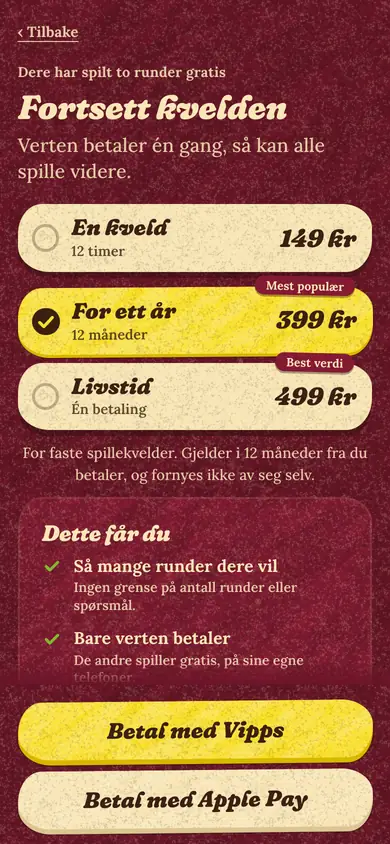
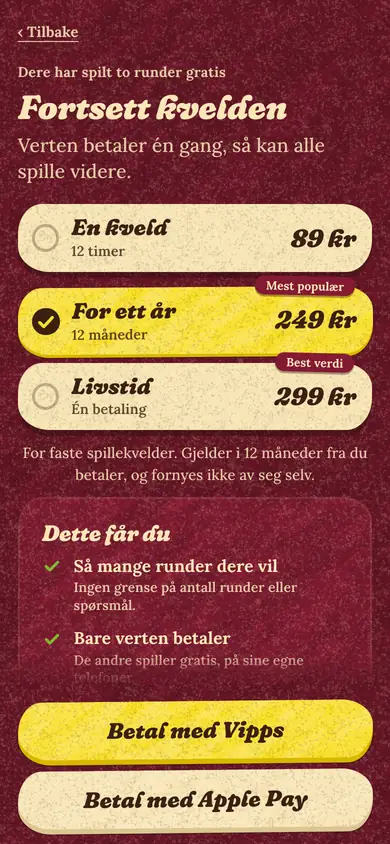
Nye priser: En kveld 89 kr, For ett år 249 kr, Livstid 299 kr
Var 149, 399 og 499 kr. Prisene står i Shopify (kassen) og i appen (public/js/pay/plans.js: pakkeskjermen og «inkl. mva»-teksten), og de må være de
samme, så begge er byttet. Videre:
- vilkårene (public/vilkar.html) og stilguiden (text + pay-gate.webp tegnet på nytt)
- Stripe-utgaven holdes i takt med: beløpene i payments/worker.js (8900, 24900, 29900), den falske Stripe-en, og Stripe-veilederen
  (docs/BETALING.md, med gebyrtabellen regnet om: 4,14 / 7,98 / 9,18 kr)
- docs/SHOPIFY.md (tabellene, og gebyrteksten: på 89 kr er 2 % + 2 kr 3,78 kr)
- testene og QA-verktøyene (belop i ordrer, refusjoner og kassen): en full refusjon er nå like stor som den nye prisen; de delvise er
  fortsatt delvise
- tools/qa/shopsmoke.mjs sjekker at kassen i den ekte butikken viser samme pris som spillet

Prøvd: 354 tester, play:pay-shopify, play:pay og qa:fit.

diff --git a/test/worker-shopify.test.js b/test/worker-shopify.test.js
@@ -162,7 +162,7 @@ describe('POST /shopify/webhook: orders/paid', () => {
       plan: 'year',
       paid_at: Math.floor(Date.parse(o.processed_at) / 1000),
       consented_at: Math.floor(Date.parse(o.note_attributes.find((a) => a.name === 'samtykke').value) / 1000),
-      amount: 39900,
+      amount: 24900,
       currency: 'NOK',
       name: o.name,
       test: 0,
@@ -184,7 +184,7 @@ describe('POST /shopify/webhook: orders/paid', () => {
     const disputed = order({ code: 'MMMM-MMMM-MMM1' });
     for (const o of [cancelled, refunded, disputed]) await t.deliver('orders/paid', o);
     await t.deliver('orders/cancelled', cancelled);
-    await t.deliver('refunds/create', refund(refunded.id, '399.00'));
+    await t.deliver('refunds/create', refund(refunded.id, '249.00'));
     await t.deliver('disputes/create', dispute(disputed.id));
     for (const o of [cancelled, refunded, disputed]) assert.equal((await t.deliver('orders/paid', o)).status, 200);
     assert.deepEqual(rows().map((r) => r.state).sort(), ['cancelled', 'disputed', 'refunded']);
@@ -317,11 +317,11 @@ describe('POST /shopify/webhook: cancelled, refunded, disputed', () => {
     await t.deliver('refunds/create', refund(o.id, '100.00'));
     assert.equal((await claim()).status, 200, 'a part of it back (a goodwill refund) does not take the access away');
     assert.equal(rows()[0].refunded, 10000);
-    await t.deliver('refunds/create', refund(o.id, '299.00'));
+    await t.deliver('refunds/create', refund(o.id, '149.00'));
     const r = await claim();
     assert.equal(r.status, 410);
     assert.equal(r.body.error, 'refunded');
-    assert.equal(rows()[0].refunded, 39900);
+    assert.equal(rows()[0].refunded, 24900);
   });
 
   it('counts a refund once, however many times Shopify calls about it, and does not count one that did not go through', async () => {
@@ -339,27 +339,27 @@ describe('POST /shopify/webhook: cancelled, refunded, disputed', () => {
 
   it('counts a refund that has been asked for but has not cleared yet (a payment app such as Vipps), and stops the code at once', async () => {
     const { order: o } = await t.pay({ plan: 'year' });
-    await t.deliver('refunds/create', refund(o.id, '399.00', { status: 'pending' }));
+    await t.deliver('refunds/create', refund(o.id, '249.00', { status: 'pending' }));
     assert.equal((await claim()).body.error, 'refunded');
   });
 
   it('counts a refund that does not say which currency it is in as one in the currency of the order', async () => {
     const { order: o } = await t.pay({ plan: 'evening' });
-    await t.deliver('refunds/create', { id: 77, order_id: o.id, transactions: [{ kind: 'refund', status: 'success', amount: '149.00' }] });
+    await t.deliver('refunds/create', { id: 77, order_id: o.id, transactions: [{ kind: 'refund', status: 'success', amount: '89.00' }] });
     assert.equal((await claim()).body.error, 'refunded');
   });
 
   it('counts a refund only in the currency of the order: a sum in another currency is not the same sum', async () => {
     const { order: o } = await t.pay({ plan: 'year' });
     await t.deliver('refunds/create', refund(o.id, '36.00', { currency: 'EUR' }));
-    await t.deliver('refunds/create', refund(o.id, '399.00', { currency: 'EUR' }));
+    await t.deliver('refunds/create', refund(o.id, '249.00', { currency: 'EUR' }));
     assert.equal(rows()[0].refunded, 0, 'what was paid back in euros does not add up to what was paid in kroner');
     assert.equal((await claim()).status, 200);
   });
 
   it('applies a refund that Shopify\'s calls delivered before the order', async () => {
     const o = order({ plan: 'evening' });
-    await t.deliver('refunds/create', refund(o.id, '149.00'));
+    await t.deliver('refunds/create', refund(o.id, '89.00'));
     await t.deliver('orders/paid', o);
     assert.equal((await claim()).body.error, 'refunded');
   });
@@ -505,7 +505,7 @@ describe('POST /restore: a customer on a new phone', () => {
     assert.equal(unknown.status, 404);
     assert.match(unknown.body.message, /Fant ingen betaling/);
     const { order: o } = await t.pay({ plan: 'year' });
-    await t.deliver('refunds/create', refund(o.id, '399.00'));
+    await t.deliver('refunds/create', refund(o.id, '249.00'));
     assert.equal((await post(CODE)).body.error, 'refunded');
     await t.pay({ plan: 'evening', code: 'HHHH-HHHH-HHH1', paidAt: new Date(Date.now() - 13 * HOUR) });
     assert.equal((await post('HHHH-HHHH-HHH1')).body.error, 'expired');

diff --git a/test/worker.test.js b/test/worker.test.js
@@ -47,8 +47,8 @@ describe('POST /checkout', () => {
     assert.equal(p.get('line_items[0][quantity]'), '1');
     assert.equal(p.get('allowed_payment_method_types[0]'), 'card', 'Apple Pay is part of "card" on Stripe\'s page');
     assert.equal(p.get('payment_method_types[0]'), null, 'the older parameter is not used unless asked for');
-    assert.equal(p.get('metadata[amount]'), '39900', 'what this payment is started with, so that a later change of price cannot lock out the buyer');
-    assert.equal(p.get('payment_intent_data[metadata][amount]'), '39900');
+    assert.equal(p.get('metadata[amount]'), '24900', 'what this payment is started with, so that a later change of price cannot lock out the buyer');
+    assert.equal(p.get('payment_intent_data[metadata][amount]'), '24900');
     assert.match(p.get('custom_text[submit][message]'), new RegExp(`Koden din er \\*\\*${p.get('metadata[code]')}\\*\\*`), 'the code is on Stripe\'s page too');
     assert.equal(p.get('locale'), 'nb');
     assert.equal(p.get('customer_creation'), 'always');
@@ -121,7 +121,7 @@ describe('POST /checkout', () => {
   });
 
   it('finds a price in Stripe that is not the package\'s before anybody has paid, and shows no payment page', async () => {
-    t.env.PRICE_YEAR = 'price_evening'; // the 149 kr price on the year
+    t.env.PRICE_YEAR = 'price_evening'; // the 89 kr price on the year
     const r = await json(await t.call('/checkout', { method: 'POST', body: { plan: 'year', method: 'applepay' } }));
     assert.equal(r.status, 503);
     assert.equal(r.body.error, 'misconfigured');
@@ -233,7 +233,7 @@ describe('GET /claim', () => {
   it('refuses a payment whose amount is not the one it was started with, whatever else is true of it', async () => {
     const started = await json(await t.call('/checkout', { method: 'POST', body: { plan: 'year', method: 'applepay' } }));
     const id = started.body.url.split('/').pop();
-    t.stripe.pay(id, { amount: 14900 }); // (something changed the amount on its way: it is not what the payment was started with)
+    t.stripe.pay(id, { amount: 8900 }); // (something changed the amount on its way: it is not what the payment was started with)
     const r = await json(await t.call(`/claim?session_id=${id}`));
     assert.equal(r.status, 503);
     assert.equal(r.body.error, 'misconfigured');

diff --git a/public/design-system/index.html b/public/design-system/index.html
@@ -323,9 +323,9 @@
     <div class="ds-grid ds-grid--wide">
       <div class="ds-phone">
         <div class="plans" role="radiogroup" aria-label="Velg pakke" data-plans>
-          <label class="plan"><input type="radio" name="ds-plan" value="evening"><span class="plan__radio" aria-hidden="true"></span><span class="plan__main"><span class="plan__name">En kveld</span><span class="plan__sub">12 timer</span></span><span class="plan__price">149 kr</span></label>
-          <label class="plan is-selected"><input type="radio" name="ds-plan" value="year" checked><span class="plan__radio" aria-hidden="true"></span><span class="plan__main"><span class="plan__name">For ett år</span><span class="plan__sub">12 måneder</span></span><span class="plan__price">399 kr</span><span class="plan__badge">Mest populær</span></label>
-          <label class="plan"><input type="radio" name="ds-plan" value="lifetime"><span class="plan__radio" aria-hidden="true"></span><span class="plan__main"><span class="plan__name">Livstid</span><span class="plan__sub">Én betaling</span></span><span class="plan__price">499 kr</span><span class="plan__badge">Best verdi</span></label>
+          <label class="plan"><input type="radio" name="ds-plan" value="evening"><span class="plan__radio" aria-hidden="true"></span><span class="plan__main"><span class="plan__name">En kveld</span><span class="plan__sub">12 timer</span></span><span class="plan__price">89 kr</span></label>
+          <label class="plan is-selected"><input type="radio" name="ds-plan" value="year" checked><span class="plan__radio" aria-hidden="true"></span><span class="plan__main"><span class="plan__name">For ett år</span><span class="plan__sub">12 måneder</span></span><span class="plan__price">249 kr</span><span class="plan__badge">Mest populær</span></label>
+          <label class="plan"><input type="radio" name="ds-plan" value="lifetime"><span class="plan__radio" aria-hidden="true"></span><span class="plan__main"><span class="plan__name">Livstid</span><span class="plan__sub">Én betaling</span></span><span class="plan__price">299 kr</span><span class="plan__badge">Best verdi</span></label>
         </div>
       </div>
       <div class="ds-stack">

diff --git a/public/vilkar.html b/public/vilkar.html
@@ -41,9 +41,9 @@
     <h2>1. Hva du kjøper</h2>
     <p>Disputt er et nettbasert spill som spilles på mobil. De to første rundene i hvert spill er gratis. Vil dere spille videre, kjøper den som startet spillet (verten) tilgang. Bare verten trenger tilgang: de andre spillerne spiller gratis, på sine egne telefoner, så lenge verten har tilgang.</p>
     <ul class="legal__plans">
-      <li><strong>En kveld</strong><span>149 kr · tilgang i 12 timer fra betalingen</span></li>
-      <li><strong>For ett år</strong><span>399 kr · tilgang i 12 måneder fra betalingen</span></li>
-      <li><strong>Livstid</strong><span>499 kr · tilgang så lenge vi tilbyr Disputt (se punkt 7)</span></li>
+      <li><strong>En kveld</strong><span>89 kr · tilgang i 12 timer fra betalingen</span></li>
+      <li><strong>For ett år</strong><span>249 kr · tilgang i 12 måneder fra betalingen</span></li>
+      <li><strong>Livstid</strong><span>299 kr · tilgang så lenge vi tilbyr Disputt (se punkt 7)</span></li>
     </ul>
     <p>Alle pakkene er engangsbetalinger. Ingenting fornyes av seg selv, og vi trekker aldri penger fra deg uten at du selv har startet en betaling. For å kjøpe må du være fylt 18 år, eller ha samtykke fra en forelder eller foresatt.</p>
   </section>

diff --git a/test/shop-flow.test.js b/test/shop-flow.test.js
@@ -422,7 +422,7 @@ describe('asking whether it was paid', () => {
 
   it('tells the host, and stops waiting, when the order was refunded, cancelled or disputed, or the package has run out', async () => {
     for (const [what, act, wording] of [
-      ['refunded', (o) => t.deliver('refunds/create', { id: 1 + Math.floor(Math.random() * 1e9), order_id: o.id, transactions: [{ kind: 'refund', status: 'success', amount: '149.00', currency: 'NOK' }] }), /refundert/],
+      ['refunded', (o) => t.deliver('refunds/create', { id: 1 + Math.floor(Math.random() * 1e9), order_id: o.id, transactions: [{ kind: 'refund', status: 'success', amount: '89.00', currency: 'NOK' }] }), /refundert/],
       ['cancelled', (o) => t.deliver('orders/cancelled', o), /kansellert/],
       ['disputed', (o) => t.deliver('disputes/create', { id: 7, order_id: o.id }), /bestridt/],
     ]) {

diff --git a/public/js/pay/plans.js b/public/js/pay/plans.js
@@ -7,14 +7,14 @@ export const PLANS = [
   {
     id: 'evening',
     name: 'En kveld',
-    price: 149,
+    price: 89,
     length: '12 timer',
     detail: 'Til én spillekveld. Gjelder i 12 timer fra du betaler.',
   },
   {
     id: 'year',
     name: 'For ett år',
-    price: 399,
+    price: 249,
     length: '12 måneder',
     detail: 'For faste spillekvelder. Gjelder i 12 måneder fra du betaler, og fornyes ikke av seg selv.',
     badge: 'Mest populær',
@@ -22,7 +22,7 @@ export const PLANS = [
   {
     id: 'lifetime',
     name: 'Livstid',
-    price: 499,
+    price: 299,
     length: 'Én betaling',
     detail: 'Betal én gang, spill for alltid. Gjelder så lenge Disputt finnes.',
     badge: 'Best verdi',

diff --git a/test/pay.test.js b/test/pay.test.js
@@ -149,10 +149,10 @@ describe('the restore code', () => {
 
 describe('the packages', () => {
   it('are the three the host can buy, with the prices from the plan', () => {
-    assert.deepEqual(PLANS.map((p) => [p.id, p.name, p.price]), [['evening', 'En kveld', 149], ['year', 'For ett år', 399], ['lifetime', 'Livstid', 499]]);
+    assert.deepEqual(PLANS.map((p) => [p.id, p.name, p.price]), [['evening', 'En kveld', 89], ['year', 'For ett år', 249], ['lifetime', 'Livstid', 299]]);
     assert.equal(planById(DEFAULT_PLAN).id, 'year');
     assert.equal(planById('nope'), null);
-    assert.equal(formatPrice(149), '149 kr');
+    assert.equal(formatPrice(89), '89 kr');
     assert.ok(PERKS.length >= 3);
   });
 

diff --git a/payments/worker.js b/payments/worker.js
@@ -38,9 +38,9 @@ function plusOneYear(seconds) {
  * `paidAt` (seconds); null means never.
  */
 const PLANS = {
-  evening: { name: 'En kveld', amount: 14900, ends: (paidAt) => paidAt + 12 * 3600 },
-  year: { name: 'For ett år', amount: 39900, ends: plusOneYear },
-  lifetime: { name: 'Livstid', amount: 49900, ends: () => null },
+  evening: { name: 'En kveld', amount: 8900, ends: (paidAt) => paidAt + 12 * 3600 },
+  year: { name: 'For ett år', amount: 24900, ends: plusOneYear },
+  lifetime: { name: 'Livstid', amount: 29900, ends: () => null },
 };
 
 const PRICE_VARS = { evening: 'PRICE_EVENING', year: 'PRICE_YEAR', lifetime: 'PRICE_LIFETIME' };

diff --git a/docs/BETALING.md b/docs/BETALING.md
@@ -12,9 +12,9 @@ Innhold: [Kort fortalt](#kort-fortalt) · [1. Slik virker det](#1-slik-virker-de
 
 | Pakke | Pris | Varighet |
 | --- | --- | --- |
-| **En kveld** | 149 kr | 12 timer fra betalingen |
-| **For ett år** (mest populær) | 399 kr | 12 måneder fra betalingen |
-| **Livstid** (best verdi) | 499 kr | én betaling, ingen utløpsdato |
+| **En kveld** | 89 kr | 12 timer fra betalingen |
+| **For ett år** (mest populær) | 249 kr | 12 måneder fra betalingen |
+| **Livstid** (best verdi) | 299 kr | én betaling, ingen utløpsdato |
 
 Alle er engangsbetalinger. Ingenting fornyes av seg selv. Bare **verten** betaler; de andre spiller gratis på sine egne telefoner.
 
@@ -106,7 +106,7 @@ Dette er den delen som tar tid, og den du ikke kan hoppe over. Start i dag, og l
 
 ### 2.2 Merverdiavgift (mva)
 
-- Pesom Holding AS står som **mva-registrert** (Proff viser «MVA» etter organisasjonsnummeret). Da skal prisene forbrukere ser være sluttprisene, med mva i. Appen og vilkårene sier derfor «inkl. mva»: 149, 399 og 499 kr er det kunden betaler, og selskapet skal beregne og betale mva av beløpet (normalsatsen er 25 %). Spør regnskapsføreren om riktig sats for denne typen tjeneste og om hvordan salg via Stripe skal bokføres.
+- Pesom Holding AS står som **mva-registrert** (Proff viser «MVA» etter organisasjonsnummeret). Da skal prisene forbrukere ser være sluttprisene, med mva i. Appen og vilkårene sier derfor «inkl. mva»: 89, 249 og 299 kr er det kunden betaler, og selskapet skal beregne og betale mva av beløpet (normalsatsen er 25 %). Spør regnskapsføreren om riktig sats for denne typen tjeneste og om hvordan salg via Stripe skal bokføres.
 - «inkl. mva» står i `public/js/screens/pay.js` og i punkt 2 i [vilkårene](../public/vilkar.html). Skulle selskapet likevel ikke være mva-registrert, må det ut begge steder.
 - **Alternativ:** Stripe tilbyr [Managed Payments](https://docs.stripe.com/payments/managed-payments), der Stripe er selger overfor kunden (merchant of record) og tar mva-oppgjøret i over 80 land. Norge er med som forretningsland, og Apple Pay og kort støttes. Men **Vipps støttes ikke** (ikke i listen over betalingsmåter), kunden ser «Sold through Link», og kvitteringene kommer fra Link og kan ikke tilpasses. Det er ikke bygget inn her. Si fra hvis du vil vurdere det.
 
@@ -134,9 +134,9 @@ Stripe tar for norske og europeiske kort (Apple Pay regnes som kort) **2,4 % + 2
 
 | Pakke | Pris | Stripe-gebyr | Igjen før mva og skatt | Hvis 25 % mva ligger i prisen: mva | Igjen etter gebyr og mva |
 | --- | --- | --- | --- | --- | --- |
-| En kveld | 149 kr | 5,58 kr | 143,42 kr | 29,80 kr | 113,62 kr |
-| For ett år | 399 kr | 11,58 kr | 387,42 kr | 79,80 kr | 307,62 kr |
-| Livstid | 499 kr | 13,98 kr | 485,02 kr | 99,80 kr | 385,22 kr |
+| En kveld | 89 kr | 4,14 kr | 84,86 kr | 17,80 kr | 67,06 kr |
+| For ett år | 249 kr | 7,98 kr | 241,02 kr | 49,80 kr | 191,22 kr |
+| Livstid | 299 kr | 9,18 kr | 289,82 kr | 59,80 kr | 230,02 kr |
 
 (Regnestykket er et anslag for norske kort og Apple Pay. Vipps-gebyret er ikke med.)
 
@@ -159,7 +159,7 @@ Kundene skal skrive til `kontakt@disputt.site`: den står i vilkårene og person
 
 **Tekster til aktiveringen.** Stripe spør hva dere selger, og noen leser svaret, så skriv det på engelsk. Du kan lime inn dette (endre hvis noe ikke stemmer):
 
-> Disputt is a social party game for 3–10 players on their own phones: a bluffing and trivia game played in the browser, with no app and no account. The first two rounds of every game are free. The host can buy access as a one-time digital purchase: "En kveld" (one evening, 12 hours) NOK 149, "For ett år" (12 months) NOK 399, "Livstid" (as long as the service is offered) NOK 499. Access is delivered immediately, as a signed pass stored in the browser plus a restore code. No subscriptions, no physical goods, no shipping. Customers are consumers, paying with Vipps, Apple Pay or card.
+> Disputt is a social party game for 3–10 players on their own phones: a bluffing and trivia game played in the browser, with no app and no account. The first two rounds of every game are free. The host can buy access as a one-time digital purchase: "En kveld" (one evening, 12 hours) NOK 89, "For ett år" (12 months) NOK 249, "Livstid" (as long as the service is offered) NOK 299. Access is delivered immediately, as a signed pass stored in the browser plus a restore code. No subscriptions, no physical goods, no shipping. Customers are consumers, paying with Vipps, Apple Pay or card.
 >
 > Refund policy: if the access does not work as described and we cannot fix it, we refund the full amount. Terms: https://disputt.site/vilkar.html (section 5). Privacy: https://disputt.site/personvern.html
 
@@ -175,13 +175,13 @@ For hver av de tre pakkene: *Product catalog* → **Add product**:
 
 | Navn | Beskrivelse | Pris | Type |
 | --- | --- | --- | --- |
-| Disputt – En kveld | 12 timers tilgang for verten | **149,00 NOK** | One-off (engangs) |
-| Disputt – For ett år | 12 måneders tilgang for verten | **399,00 NOK** | One-off |
-| Disputt – Livstid | Tilgang så lenge Disputt finnes, for verten | **499,00 NOK** | One-off |
+| Disputt – En kveld | 12 timers tilgang for verten | **89,00 NOK** | One-off (engangs) |
+| Disputt – For ett år | 12 måneders tilgang for verten | **249,00 NOK** | One-off |
+| Disputt – Livstid | Tilgang så lenge Disputt finnes, for verten | **299,00 NOK** | One-off |
 
 1. - [ ] Lag de tre produktene. Velg **One-off**, ikke *Recurring*.
 2. - [ ] Kopier **pris-ID-en** til hver (`price_…`): åpne produktet, finn prisen, trykk ⋯ → *Copy price ID*. Du trenger de tre i del 8 (`PRICE_EVENING`, `PRICE_YEAR`, `PRICE_LIFETIME`).
-3. - [ ] Dobbeltsjekk at beløpene er **nøyaktig** 149, 399 og 499 kroner, i NOK.
+3. - [ ] Dobbeltsjekk at beløpene er **nøyaktig** 89, 249 og 299 kroner, i NOK.
 
 Betalingsserveren sjekker prisen **før** kunden får se betalingssiden: stemmer ikke beløpet i Stripe med pakken (en pris-ID som peker på feil pris), får du feilen «Prisen i Stripe stemmer ikke med pakken» med navnet på variabelen, og ingen betaler for noe som ikke virker. Beløpet som betalingen startet med lagres også hos Stripe, og kontrolleres igjen når tilgangen hentes. Skal du endre en pris, se «Endre priser» i [del 12](#12-drift).
 
@@ -302,7 +302,7 @@ Filen er [`payments/worker.js`](../payments/worker.js): ca. 350 linjer, ingen av
 | `… (JWT_PRIVATE_KEY kan ikke leses)` | nøkkelen er kuttet, har linjeskift midt i, eller er ikke fra del 7.2 |
 | `… (TERMS_URL må være en https-adresse …)` | adressen har mellomrom, parenteser eller anførselstegn, eller er ikke https |
 | `Denne siden har ikke lov til å bruke betalingen` | adressen som kaller er ikke `SITE_URL` (feil adresse, eller http i stedet for https) |
-| `Beløpet stemmer ikke med pakken` | prisen i Stripe er ikke nøyaktig 149/399/499 kr i NOK |
+| `Beløpet stemmer ikke med pakken` | prisen i Stripe er ikke nøyaktig 89/249/299 kr i NOK |
 | `Betalingstjenesten sa nei …` (og i Cloudflare-loggen: *No such price*) | pris-ID-en hører til et annet miljø: en live-pris sammen med en testnøkkel, eller omvendt |
 | `Tilgangen kunne ikke kontrolleres` etter en betaling | den offentlige nøkkelen på GitHub (`DISPUTT_PAYMENTS_KEY`) hører ikke til den private i Cloudflare (`JWT_PRIVATE_KEY`). Betalingen er gjort, så rett opp nøkkelen og la kunden trykke «Logg inn» med koden. |
 | `Fikk ikke kontakt med betalingen` | telefonen når ikke betalingsserveren: feil adresse i `DISPUTT_PAYMENTS_URL`, eller Workeren er ikke deployet |
@@ -354,13 +354,13 @@ Testkort ([Stripes testkort](https://docs.stripe.com/testing)): `4242 4242 4242 
 | 1 | Åpne `…/health` på Workeren | `ok: true`, `mode: "test"` |
 | 2 | Forsiden | «Allerede kunde? Logg inn» (ikke «Slik spiller du»); regler finnes fortsatt under Vertsvalg i spillet |
 | 3 | Spill to runder. Verten trykker «Neste runde» | Verten får **pakkene**. Gjestene ser «Venter på at verten starter neste runde» og får aldri pakkene |
-| 4 | Velg **En kveld**, trykk **Betal med Apple Pay**. Betal med `4242…` | Stripe-siden viser 149 kr. Tilbake i spillet: «Takk!» med koden og knappen **Start runde 3** |
+| 4 | Velg **En kveld**, trykk **Betal med Apple Pay**. Betal med `4242…` | Stripe-siden viser 89 kr. Tilbake i spillet: «Takk!» med koden og knappen **Start runde 3** |
 | 5 | Mens verten er hos Stripe: se på en gjest | «Verten betaler – spillet fortsetter straks». Gjesten blir i spillet, også etter flere minutter (opptil ti) |
 | 6 | Trykk **Start runde 3** | Runde 3 starter. Er en gjest ikke tilbake ennå, står det «Venter på at … kommer tilbake …» under koden |
 | 7 | Trykk «Neste runde» etter runde 3 | Ingen betalingsmur: verten har tilgang |
 | 8 | **Avbryt** på Stripe-siden (pilen tilbake) | «Betalingen ble avbrutt. Du er ikke belastet.» Spillet står som før; «Neste runde» gir pakkene igjen |
 | 9 | I Stripe: Payments → betalingen → send kvittering for hånd | Kvitteringen kommer. **Står koden i kvitteringen?** Hvis ikke: se «Mistet koden» i [del 12](#12-drift) |
-| 10 | Pakken «For ett år» og «Livstid» (egne betalinger) | Beløpene 399 og 499 kr. «Takk!» sier «Gjelder til …» og «Gjelder for alltid» |
+| 10 | Pakken «For ett år» og «Livstid» (egne betalinger) | Beløpene 249 og 299 kr. «Takk!» sier «Gjelder til …» og «Gjelder for alltid» |
 | 11 | Avvist kort `4000 0000 0000 0002` | Stripe viser feil og lar deg prøve igjen. Spillet påvirkes ikke |
 | 12 | 3-D Secure `4000 0027 6000 3184` | Testsiden for godkjenning, så «Takk!» |
 | 13 | Ny telefon (eller privat fane): **Logg inn** → skriv koden | «Velkommen tilbake! …». Prøv også koden med små bokstaver og uten bindestreker, og en feil kode («Fant ingen betaling med den koden.»). **Vent et minutt etter betalingen først:** Stripes søk, som slår opp koden, kan ligge opptil ett minutt etter ([Stripe](https://docs.stripe.com/search): «under 1 minute»). Betaler du og logger inn med en gang på en annen telefon, kan du få «Fant ingen betaling» som går over av seg selv. |
@@ -389,15 +389,15 @@ Først når alt over virker i testmiljøet.
 - [ ] **Lag en ny Worker, `disputt-pay`** (del 8): samme kode, men `STRIPE_KEY` = live-nøkkelen, de tre **live**-pris-ID-ene, `SITE_URL` = `https://disputt.site/`, `VIPPS_ENABLED` = `true` hvis Vipps er på, `REQUIRE_TERMS` = `true` og `TERMS_URL` = `https://disputt.site/vilkar.html`. `JWT_PRIVATE_KEY` må være et **eget nøkkelpar for live** (del 7.2), ikke det samme som i test. Den offentlige nøkkelen i hovedrepoet er den som hører til.
 - [ ] Åpne `…/health` på den nye Workeren: `"mode":"live"`, `"terms":"box-with-link"`.
 - [ ] **GitHub, hovedrepoet:** variablene `DISPUTT_PAYMENTS_URL` (den nye Workeren), `DISPUTT_PAYMENTS_KEY`, `DISPUTT_PAYMENTS_METHODS`. (`DISPUTT_TERMS_URL` og `DISPUTT_PRIVACY_URL` trengs ikke: appens egne sider brukes.) Kjør **Actions → Pages → Run workflow**.
-- [ ] **Kjøp pakken «En kveld» selv**, med ekte betaling (149 kr). Sjekk: betalingen står i Stripe, kvitteringen kom, «Takk!» viser koden, og runden starter. **Refunder** den deretter i Dashboard og sjekk at koden da nektes.
+- [ ] **Kjøp pakken «En kveld» selv**, med ekte betaling (89 kr). Sjekk: betalingen står i Stripe, kvitteringen kom, «Takk!» viser koden, og runden starter. **Refunder** den deretter i Dashboard og sjekk at koden da nektes.
 - [ ] Sjekk utbetalingen (Stripe utbetaler til bankkontoen etter en frist som står i Dashboard) og at bokføringen din får det den trenger.
-- [ ] Fortell vennene dine at spillet nå har en betalingsmur etter runde 2 (og at den ene kvelden er 149 kr).
+- [ ] Fortell vennene dine at spillet nå har en betalingsmur etter runde 2 (og at den ene kvelden er 89 kr).
 
 ## 12. Drift
 
 | Når | Gjør slik |
 | --- | --- |
-| **Refusjon** | Stripe → Payments → betalingen → **Refund**. Refunderer du **hele** beløpet, virker koden ikke lenger på nye telefoner. En delvis refusjon (for eksempel 50 av 149 kr som imøtekommelse) låser ikke noe: kunden beholder det de kjøpte. En betaling som banken har bestridt (tvist) låses også. Telefoner som allerede har tilgangen beholder den (tilgangen er en signert fil som ikke kan trekkes tilbake, se del 14). |
+| **Refusjon** | Stripe → Payments → betalingen → **Refund**. Refunderer du **hele** beløpet, virker koden ikke lenger på nye telefoner. En delvis refusjon (for eksempel 20 av 89 kr som imøtekommelse) låser ikke noe: kunden beholder det de kjøpte. En betaling som banken har bestridt (tvist) låses også. Telefoner som allerede har tilgangen beholder den (tilgangen er en signert fil som ikke kan trekkes tilbake, se del 14). |
 | **Mistet koden** | Kunden skriver til deg med e-posten som ble brukt. Finn betalingen i Stripe (Payments, søk på e-post), åpne den og se **Metadata → code**. Send koden. (Eller send kvitteringslenken.) |
 | **Kundens telefon er byttet** | «Allerede kunde? Logg inn» med koden. Nettleseren husker tilgangen etterpå. |
 | **Rotere Stripe-nøkkelen** | Dashboard → API keys → ⋯ → *Rotate key* (du får opptil 7 dagers overlapp), og legg den nye verdien i `STRIPE_KEY` i Cloudflare. |

diff --git a/docs/SHOPIFY.md b/docs/SHOPIFY.md
@@ -12,9 +12,9 @@ Innhold: [Kort fortalt](#kort-fortalt) · [1. Slik virker det](#1-slik-virker-de
 
 | Pakke | Pris | Varighet |
 | --- | --- | --- |
-| **En kveld** | 149 kr | 12 timer fra betalingen |
-| **For ett år** (mest populær) | 399 kr | 12 måneder fra betalingen |
-| **Livstid** (best verdi) | 499 kr | én betaling, ingen utløpsdato |
+| **En kveld** | 89 kr | 12 timer fra betalingen |
+| **For ett år** (mest populær) | 249 kr | 12 måneder fra betalingen |
+| **Livstid** (best verdi) | 299 kr | én betaling, ingen utløpsdato |
 
 Alle er engangsbetalinger. Ingenting fornyes av seg selv. Bare **verten** betaler; de andre spiller gratis på sine egne telefoner. Prisene står i Shopify; hvor lenge tilgangen varer står i koden ([del 15](#15-slik-henger-koden-sammen)).
 
@@ -119,7 +119,7 @@ Butikken er en egen butikk for Disputt, med egen månedspris. Planen *Basic* hol
 2. - [ ] **Vipps.** Shopify Payments har ikke Vipps. Vipps MobilePay har sitt eget tillegg: *Add payment methods* → søk «Vipps» → **Vipps/MobilePay Payments** (laget av Crude for Vipps MobilePay) → *Install*. Du trenger en avtale med Vipps MobilePay for selskapet (salgssted, bankkonto), og onboardingen kan ta opptil ti virkedager. **Søk med en gang**; Apple Pay og kort kan åpne uten. Velg automatisk uttrekk (capture) også der: webhooken «Order payment» kommer når pengene er trukket.
 3. - [ ] Du kan teste med Shopify Payments' testmodus og testkort ([del 12](#12-test-alt)); den slås på da.
 
-**Gebyrer.** Shopify Payments tar 2 % + 2 kr på kort på planen Basic. Vipps går som en tredjeparts betalingsmåte: **2 % ekstra** til Shopify på Basic, i tillegg til Vipps' eget gebyr. Hold det opp mot prisene i del 5: på 149 kr er 2 % litt under 3 kr. Planen har dessuten en fast månedspris. Se [Shopifys prisside](https://www.shopify.com/no/pricing) for tallene som gjelder når du leser dette.
+**Gebyrer.** Shopify Payments tar 2 % + 2 kr på kort på planen Basic. Vipps går som en tredjeparts betalingsmåte: **2 % ekstra** til Shopify på Basic, i tillegg til Vipps' eget gebyr. Hold det opp mot prisene i del 5: på 89 kr er 2 % 1,78 kr, så et kortkjøp koster 3,78 kr i gebyr (litt over 4 %, fordi de 2 kronene er faste). Planen har dessuten en fast månedspris. Se [Shopifys prisside](https://www.shopify.com/no/pricing) for tallene som gjelder når du leser dette.
 
 ## 5. Shopify: de tre produktene
 
@@ -127,9 +127,9 @@ Butikken er en egen butikk for Disputt, med egen månedspris. Planen *Basic* hol
 
 | Tittel | Pris | Beskrivelse (lim inn) |
 | --- | --- | --- |
-| **Disputt – En kveld (12 timer)** | 149 kr | Tilgang til alle runder i Disputt i 12 timer fra du betaler, til én spillekveld. Én betaling, ingenting fornyes. Bare verten betaler: de andre spiller gratis på sine egne telefoner. Du får en kode på e-post som gir deg tilgangen tilbake på en annen telefon. |
-| **Disputt – For ett år (12 måneder)** | 399 kr | Tilgang til alle runder i Disputt i 12 måneder fra du betaler, til faste spillekvelder. Én betaling, og tilgangen fornyes ikke av seg selv. Bare verten betaler: de andre spiller gratis på sine egne telefoner. Du får en kode på e-post som gir deg tilgangen tilbake på en annen telefon. |
-| **Disputt – Livstid** | 499 kr | Tilgang til alle runder i Disputt så lenge Disputt tilbys (se vilkårene). Én betaling. Bare verten betaler: de andre spiller gratis på sine egne telefoner. Du får en kode på e-post som gir deg tilgangen tilbake på en annen telefon. |
+| **Disputt – En kveld (12 timer)** | 89 kr | Tilgang til alle runder i Disputt i 12 timer fra du betaler, til én spillekveld. Én betaling, ingenting fornyes. Bare verten betaler: de andre spiller gratis på sine egne telefoner. Du får en kode på e-post som gir deg tilgangen tilbake på en annen telefon. |
+| **Disputt – For ett år (12 måneder)** | 249 kr | Tilgang til alle runder i Disputt i 12 måneder fra du betaler, til faste spillekvelder. Én betaling, og tilgangen fornyes ikke av seg selv. Bare verten betaler: de andre spiller gratis på sine egne telefoner. Du får en kode på e-post som gir deg tilgangen tilbake på en annen telefon. |
+| **Disputt – Livstid** | 299 kr | Tilgang til alle runder i Disputt så lenge Disputt tilbys (se vilkårene). Én betaling. Bare verten betaler: de andre spiller gratis på sine egne telefoner. Du får en kode på e-post som gir deg tilgangen tilbake på en annen telefon. |
 
 For hvert produkt:
 

diff --git a/README.md b/README.md
@@ -60,7 +60,7 @@ Terminalen skriver ut to adresser. Åpne **adressen merket «På mobilen (Wi‑F
 
 ## Betaling (av som standard)
 
-Spillet er gratis. Koden kan også ta betalt, men det er **slått av** helt til to variabler settes på GitHub: tre pakker bare verten kjøper (**En kveld** 149 kr, **For ett år** 399 kr, **Livstid** 499 kr), en betalingsmur etter to gratis runder, betaling med **Vipps, Apple Pay eller kort** i en Shopify-butikk som åpner seg i en ny fane (eller hos Stripe), ingen innlogging (en kode fra e-posten gir tilgangen tilbake på en ny telefon). Betalingsserveren er én Cloudflare Worker: [`payments/worker-shopify.js`](payments/worker-shopify.js) (med en liten D1-database) for Shopify, og [`payments/worker.js`](payments/worker.js), som ikke lagrer noe, for Stripe. **Oppsettet, steg for steg: [docs/SHOPIFY.md](docs/SHOPIFY.md)** (Stripe: [docs/BETALING.md](docs/BETALING.md)).
+Spillet er gratis. Koden kan også ta betalt, men det er **slått av** helt til to variabler settes på GitHub: tre pakker bare verten kjøper (**En kveld** 89 kr, **For ett år** 249 kr, **Livstid** 299 kr), en betalingsmur etter to gratis runder, betaling med **Vipps, Apple Pay eller kort** i en Shopify-butikk som åpner seg i en ny fane (eller hos Stripe), ingen innlogging (en kode fra e-posten gir tilgangen tilbake på en ny telefon). Betalingsserveren er én Cloudflare Worker: [`payments/worker-shopify.js`](payments/worker-shopify.js) (med en liten D1-database) for Shopify, og [`payments/worker.js`](payments/worker.js), som ikke lagrer noe, for Stripe. **Oppsettet, steg for steg: [docs/SHOPIFY.md](docs/SHOPIFY.md)** (Stripe: [docs/BETALING.md](docs/BETALING.md)).
 
 ## Designsystem
 
